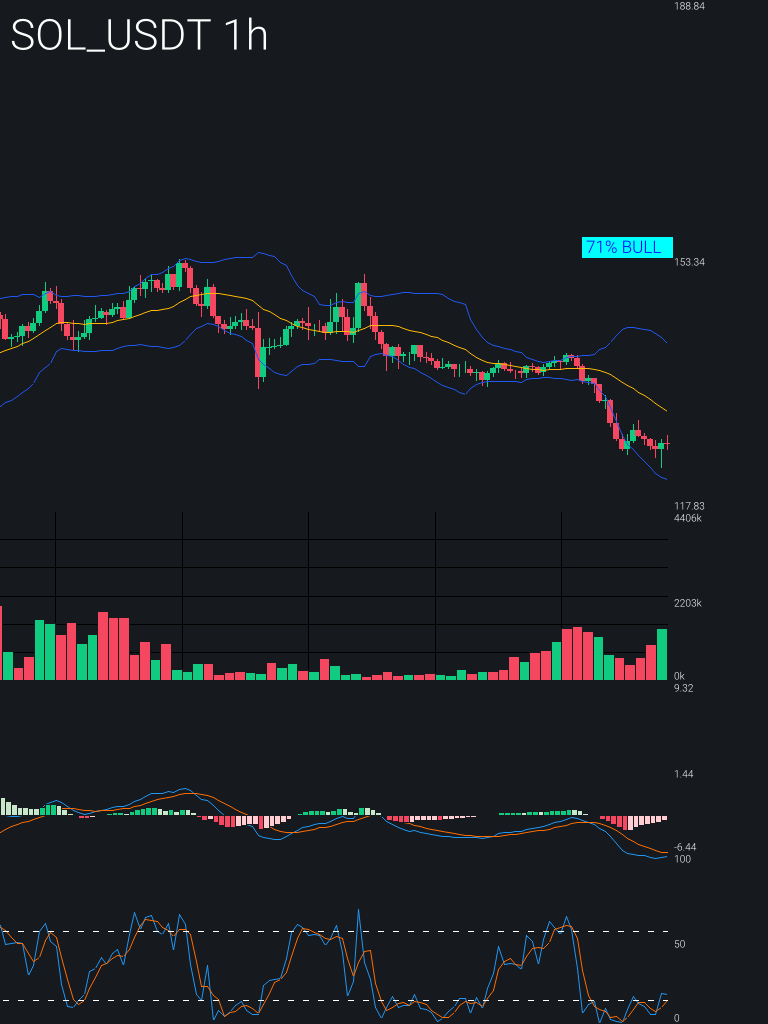
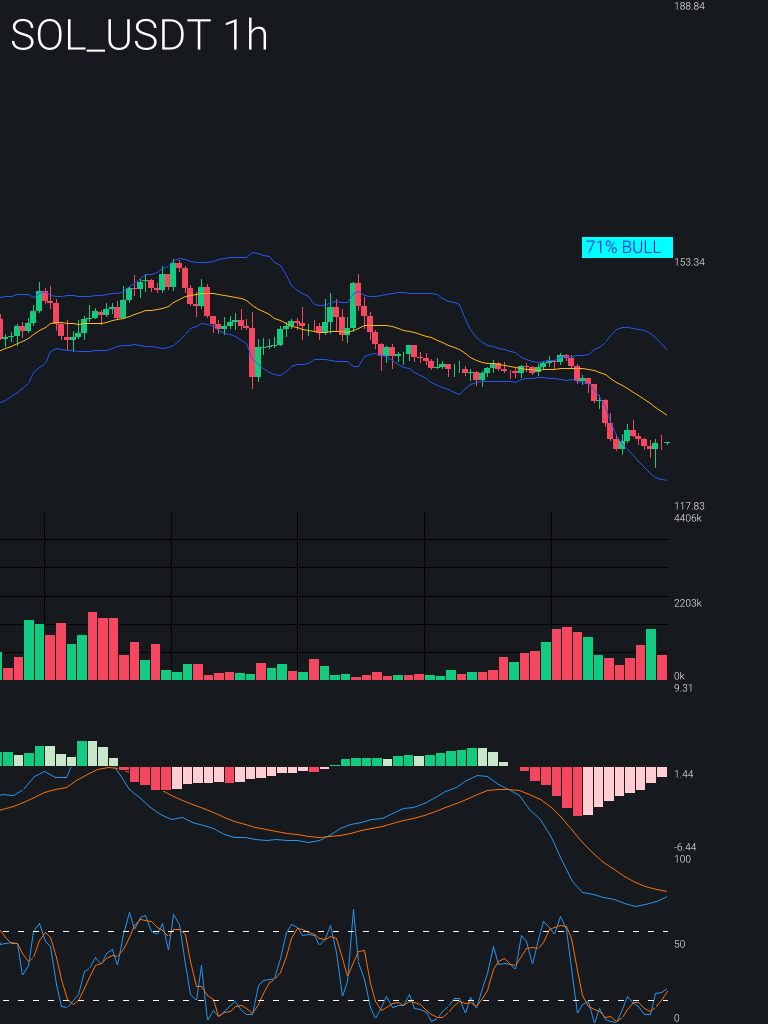
fix mcad display data only

diff --git a/feeder/src/charts/candle.rs b/feeder/src/charts/candle.rs
@@ -85,12 +85,42 @@ fn parse_timeframe_duration(timeframe: &str) -> Duration {
     }
 }
 
+fn get_visible_range_and_data<'a>(
+    past_data: &'a [Kline],
+    timezone: &Tz,
+    candle_width: u32,
+    final_width: u32,
+) -> Result<(DateTime<Tz>, DateTime<Tz>, Vec<&'a Kline>), Box<dyn Error>> {
+    let total_candles = past_data.len();
+    if total_candles == 0 {
+        return Err("No candle data available".into());
+    }
+
+    // Step 1: Calculate the visible time range
+    let visible_candles = (final_width / candle_width) as usize;
+    let start_index = total_candles.saturating_sub(visible_candles);
+
+    // Get the visible time range
+    let first_visible_time = parse_kline_time(past_data[start_index].open_time, timezone);
+    let last_visible_time = parse_kline_time(past_data[total_candles - 1].open_time, timezone);
+
+    // Step 2: Filter data for the visible range
+    let visible_data: Vec<&Kline> = past_data
+        .iter()
+        .filter(|k| {
+            let time = parse_kline_time(k.open_time, timezone);
+            time >= first_visible_time && time <= last_visible_time
+        })
+        .collect();
+
+    Ok((first_visible_time, last_visible_time, visible_data))
+}
+
 // Chart struct
 pub struct Chart {
     timezone: Tz,
     timeframe: String,
     past_candle_data: Option<Vec<Kline>>,
-    predicted_candle_data: Option<Vec<Kline>>,
     metadata: ChartMetaData,
     font_data: Option<Vec<u8>>,
     candle_width: u32,
@@ -112,7 +142,6 @@ impl Chart {
             timezone,
             timeframe: timeframe.to_string(),
             past_candle_data: None,
-            predicted_candle_data: None,
             metadata: ChartMetaData {
                 title: String::new(),
             },
@@ -328,38 +357,21 @@ impl Chart {
                 }
 
                 let mut area_iter = areas.into_iter().enumerate();
+
                 if self.volume_enabled {
                     let (_idx, volume_area) = area_iter.next().unwrap();
 
-                    // Step 1: Calculate the visible time range
-                    let total_candles = past_data.len();
-                    let final_width = 768; // As defined earlier
-                    let visible_candles = (final_width / candle_width) as usize;
-                    let start_index = total_candles.saturating_sub(visible_candles);
+                    // Use the helper function to get the visible range and data
+                    let (first_visible_time, last_visible_time, visible_data) =
+                        get_visible_range_and_data(past_data, timezone, candle_width, final_width)?;
 
-                    // Get the visible time range
-                    let first_visible_time =
-                        parse_kline_time(past_data[start_index].open_time, timezone);
-                    let last_visible_time =
-                        parse_kline_time(past_data[total_candles - 1].open_time, timezone);
-
-                    // Step 2: Filter data for the visible range and calculate max_volume
-                    let visible_data: Vec<&Kline> = past_data
-                        .iter()
-                        .filter(|k| {
-                            let time = parse_kline_time(k.open_time, timezone);
-                            time >= first_visible_time && time <= last_visible_time
-                        })
-                        .collect();
-
+                    // Calculate max_volume for the visible range
                     let max_volume = visible_data
                         .iter()
                         .map(|k| k.volume.parse::<f32>().unwrap())
                         .fold(0.0f32, |a, b| a.max(b));
 
-                    println!("max_volume (visible range): {:?}", max_volume);
-
-                    // Step 3: Build the volume chart with the visible time range and max_volume
+                    // Build the volume chart with the visible time range and max_volume
                     let mut volume_chart = ChartBuilder::on(&volume_area)
                         .margin_right(margin_right)
                         .build_cartesian_2d(
@@ -377,8 +389,16 @@ impl Chart {
 
                 if self.macd_enabled {
                     let (_idx, macd_area) = area_iter.next().unwrap();
-                    let past_m4rs_candles: Vec<M4rsCandlestick> =
-                        past_data.iter().map(kline_to_m4rs_candlestick).collect();
+
+                    // Use the helper function to get the visible range and data
+                    let (first_visible_time, last_visible_time, visible_data) =
+                        get_visible_range_and_data(past_data, timezone, candle_width, final_width)?;
+
+                    // Calculate MACD values for the visible range
+                    let past_m4rs_candles: Vec<M4rsCandlestick> = visible_data
+                        .iter()
+                        .map(|k| kline_to_m4rs_candlestick(k))
+                        .collect();
                     let macd_result = macd(&past_m4rs_candles, 12, 26, 9)?;
                     let macd_values: Vec<f32> = macd_result
                         .iter()
@@ -398,12 +418,18 @@ impl Chart {
                         .iter()
                         .fold(f32::NEG_INFINITY, |a, &b| a.max(b))
                         .max(1.0);
+
+                    // Build the MACD chart with the visible time range
                     let mut macd_chart = ChartBuilder::on(&macd_area)
                         .margin_right(margin_right)
-                        .build_cartesian_2d(first_time..last_time, macd_min..macd_max)?;
+                        .build_cartesian_2d(
+                            first_visible_time..last_visible_time,
+                            macd_min..macd_max,
+                        )?;
+
                     draw_macd(
                         &mut macd_chart,
-                        &Some(past_data.to_vec()),
+                        &Some(visible_data.into_iter().cloned().collect()),
                         timezone,
                         &self.timeframe,
                     )?;
